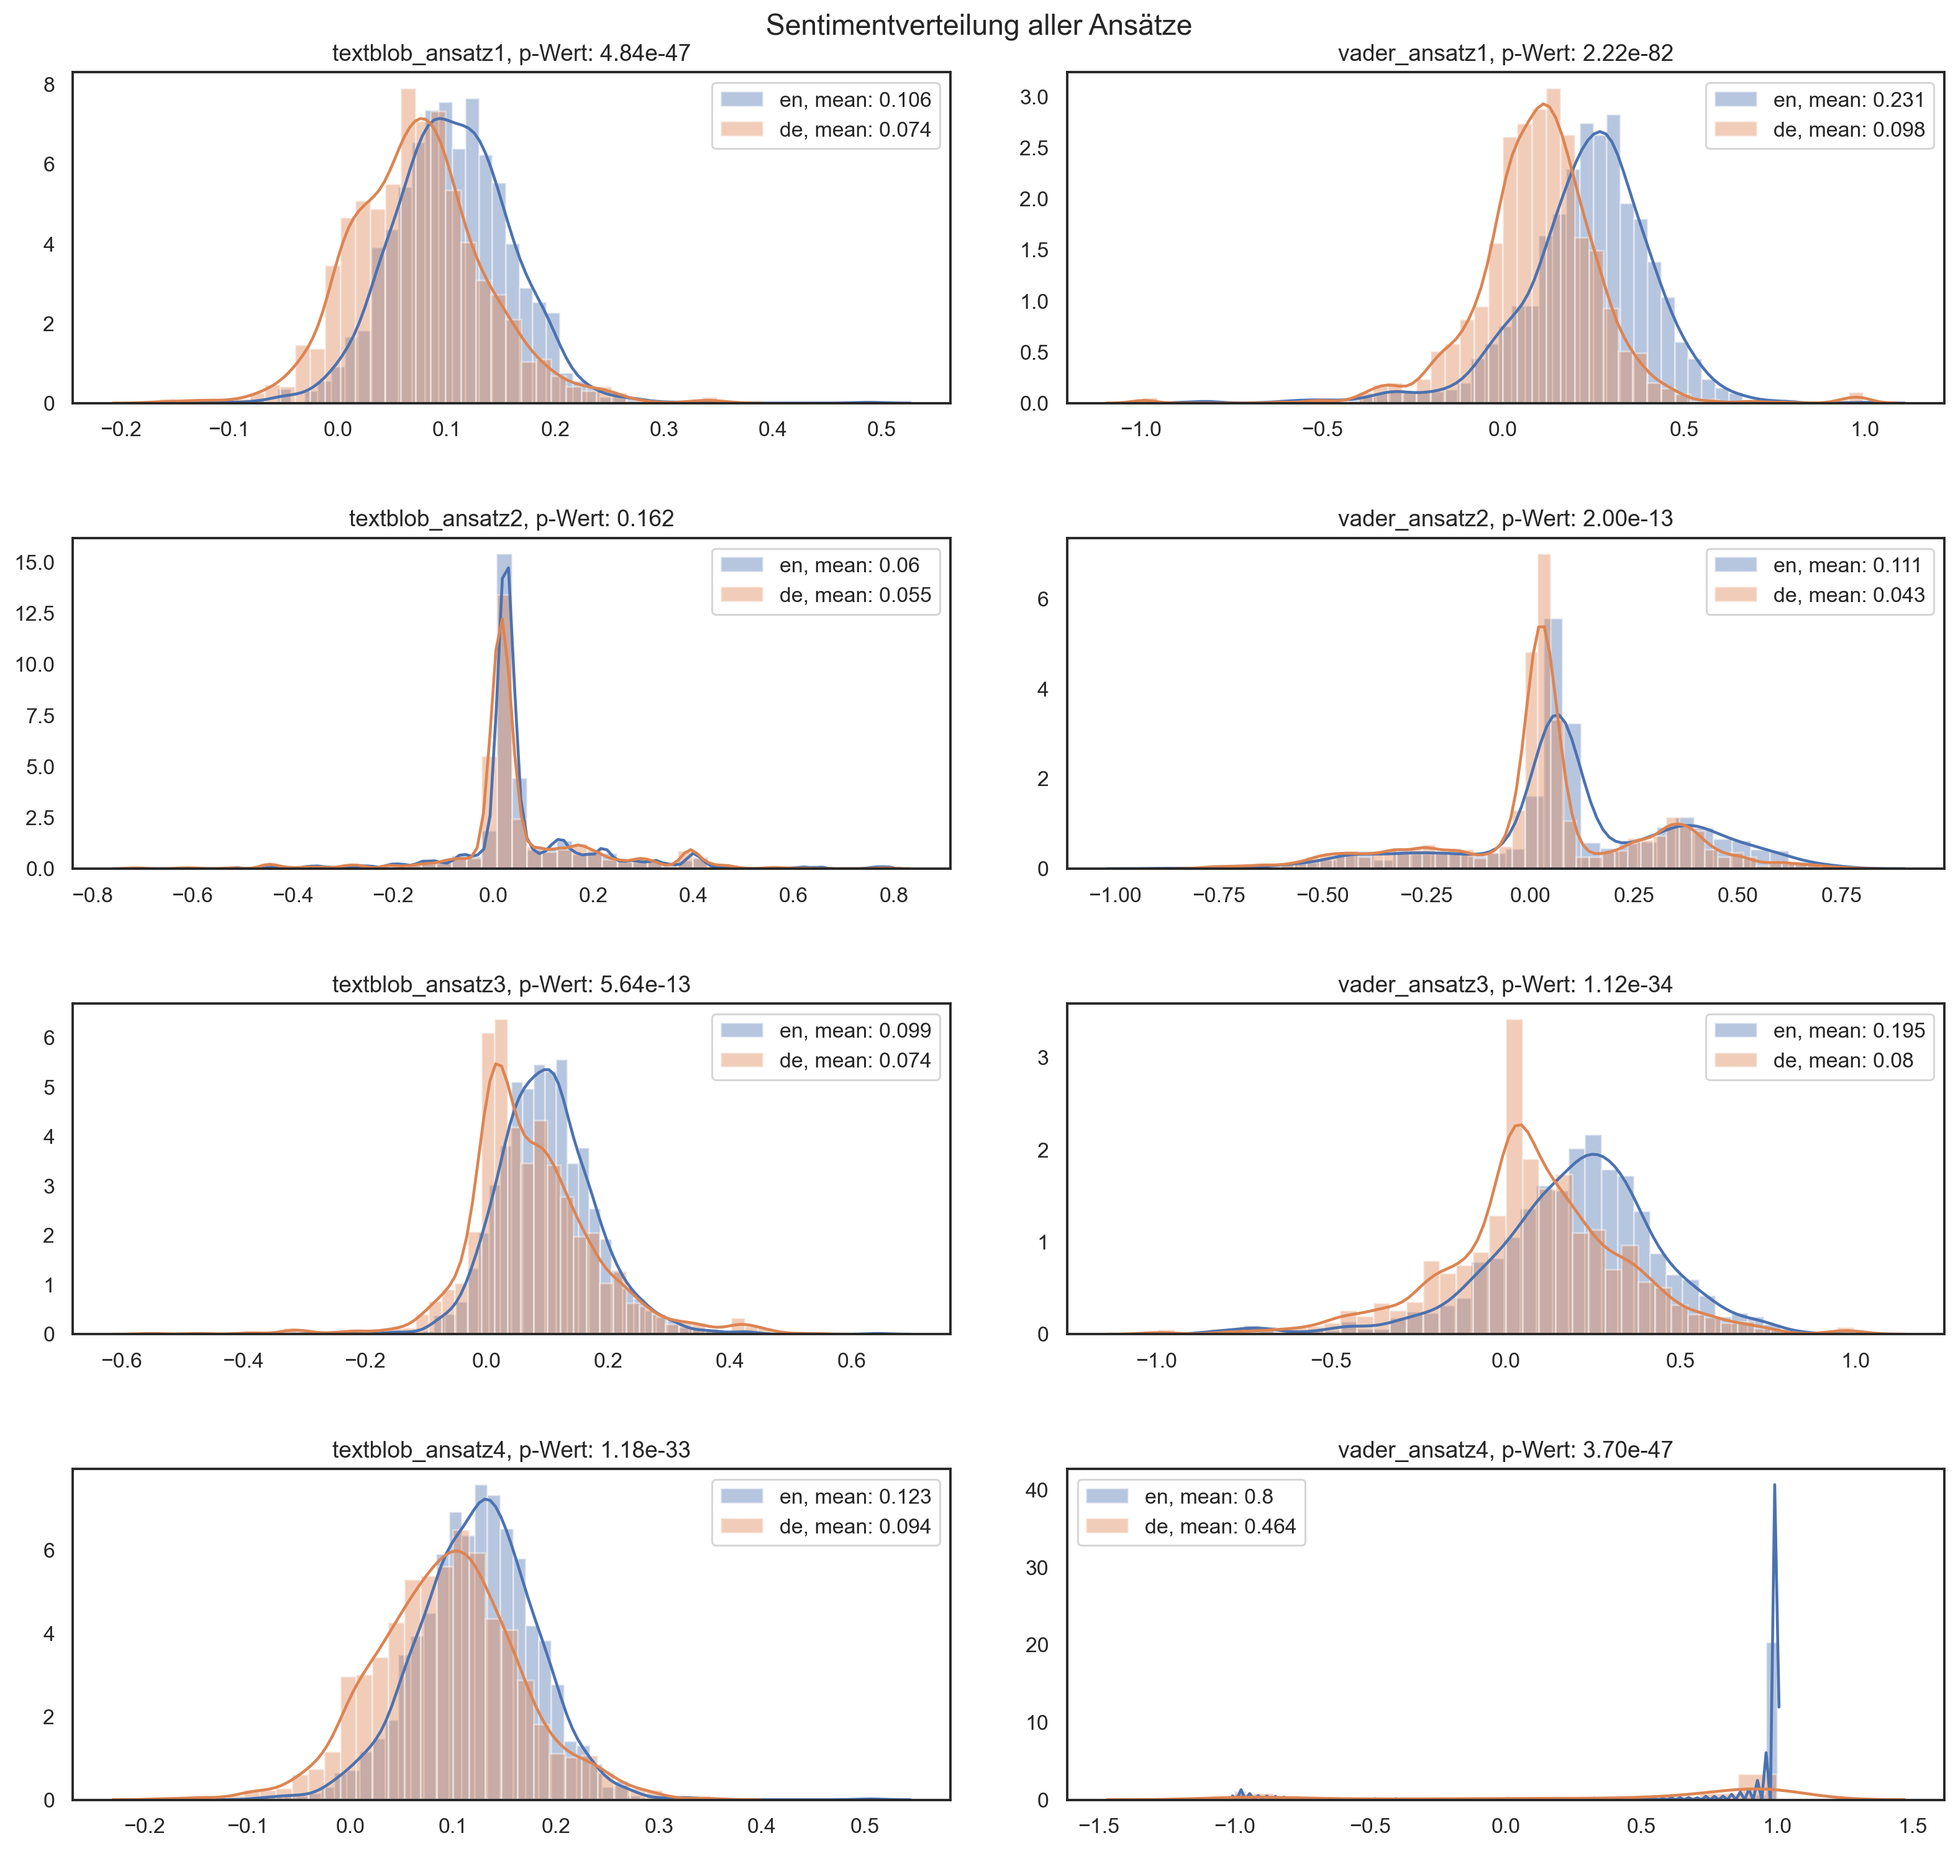
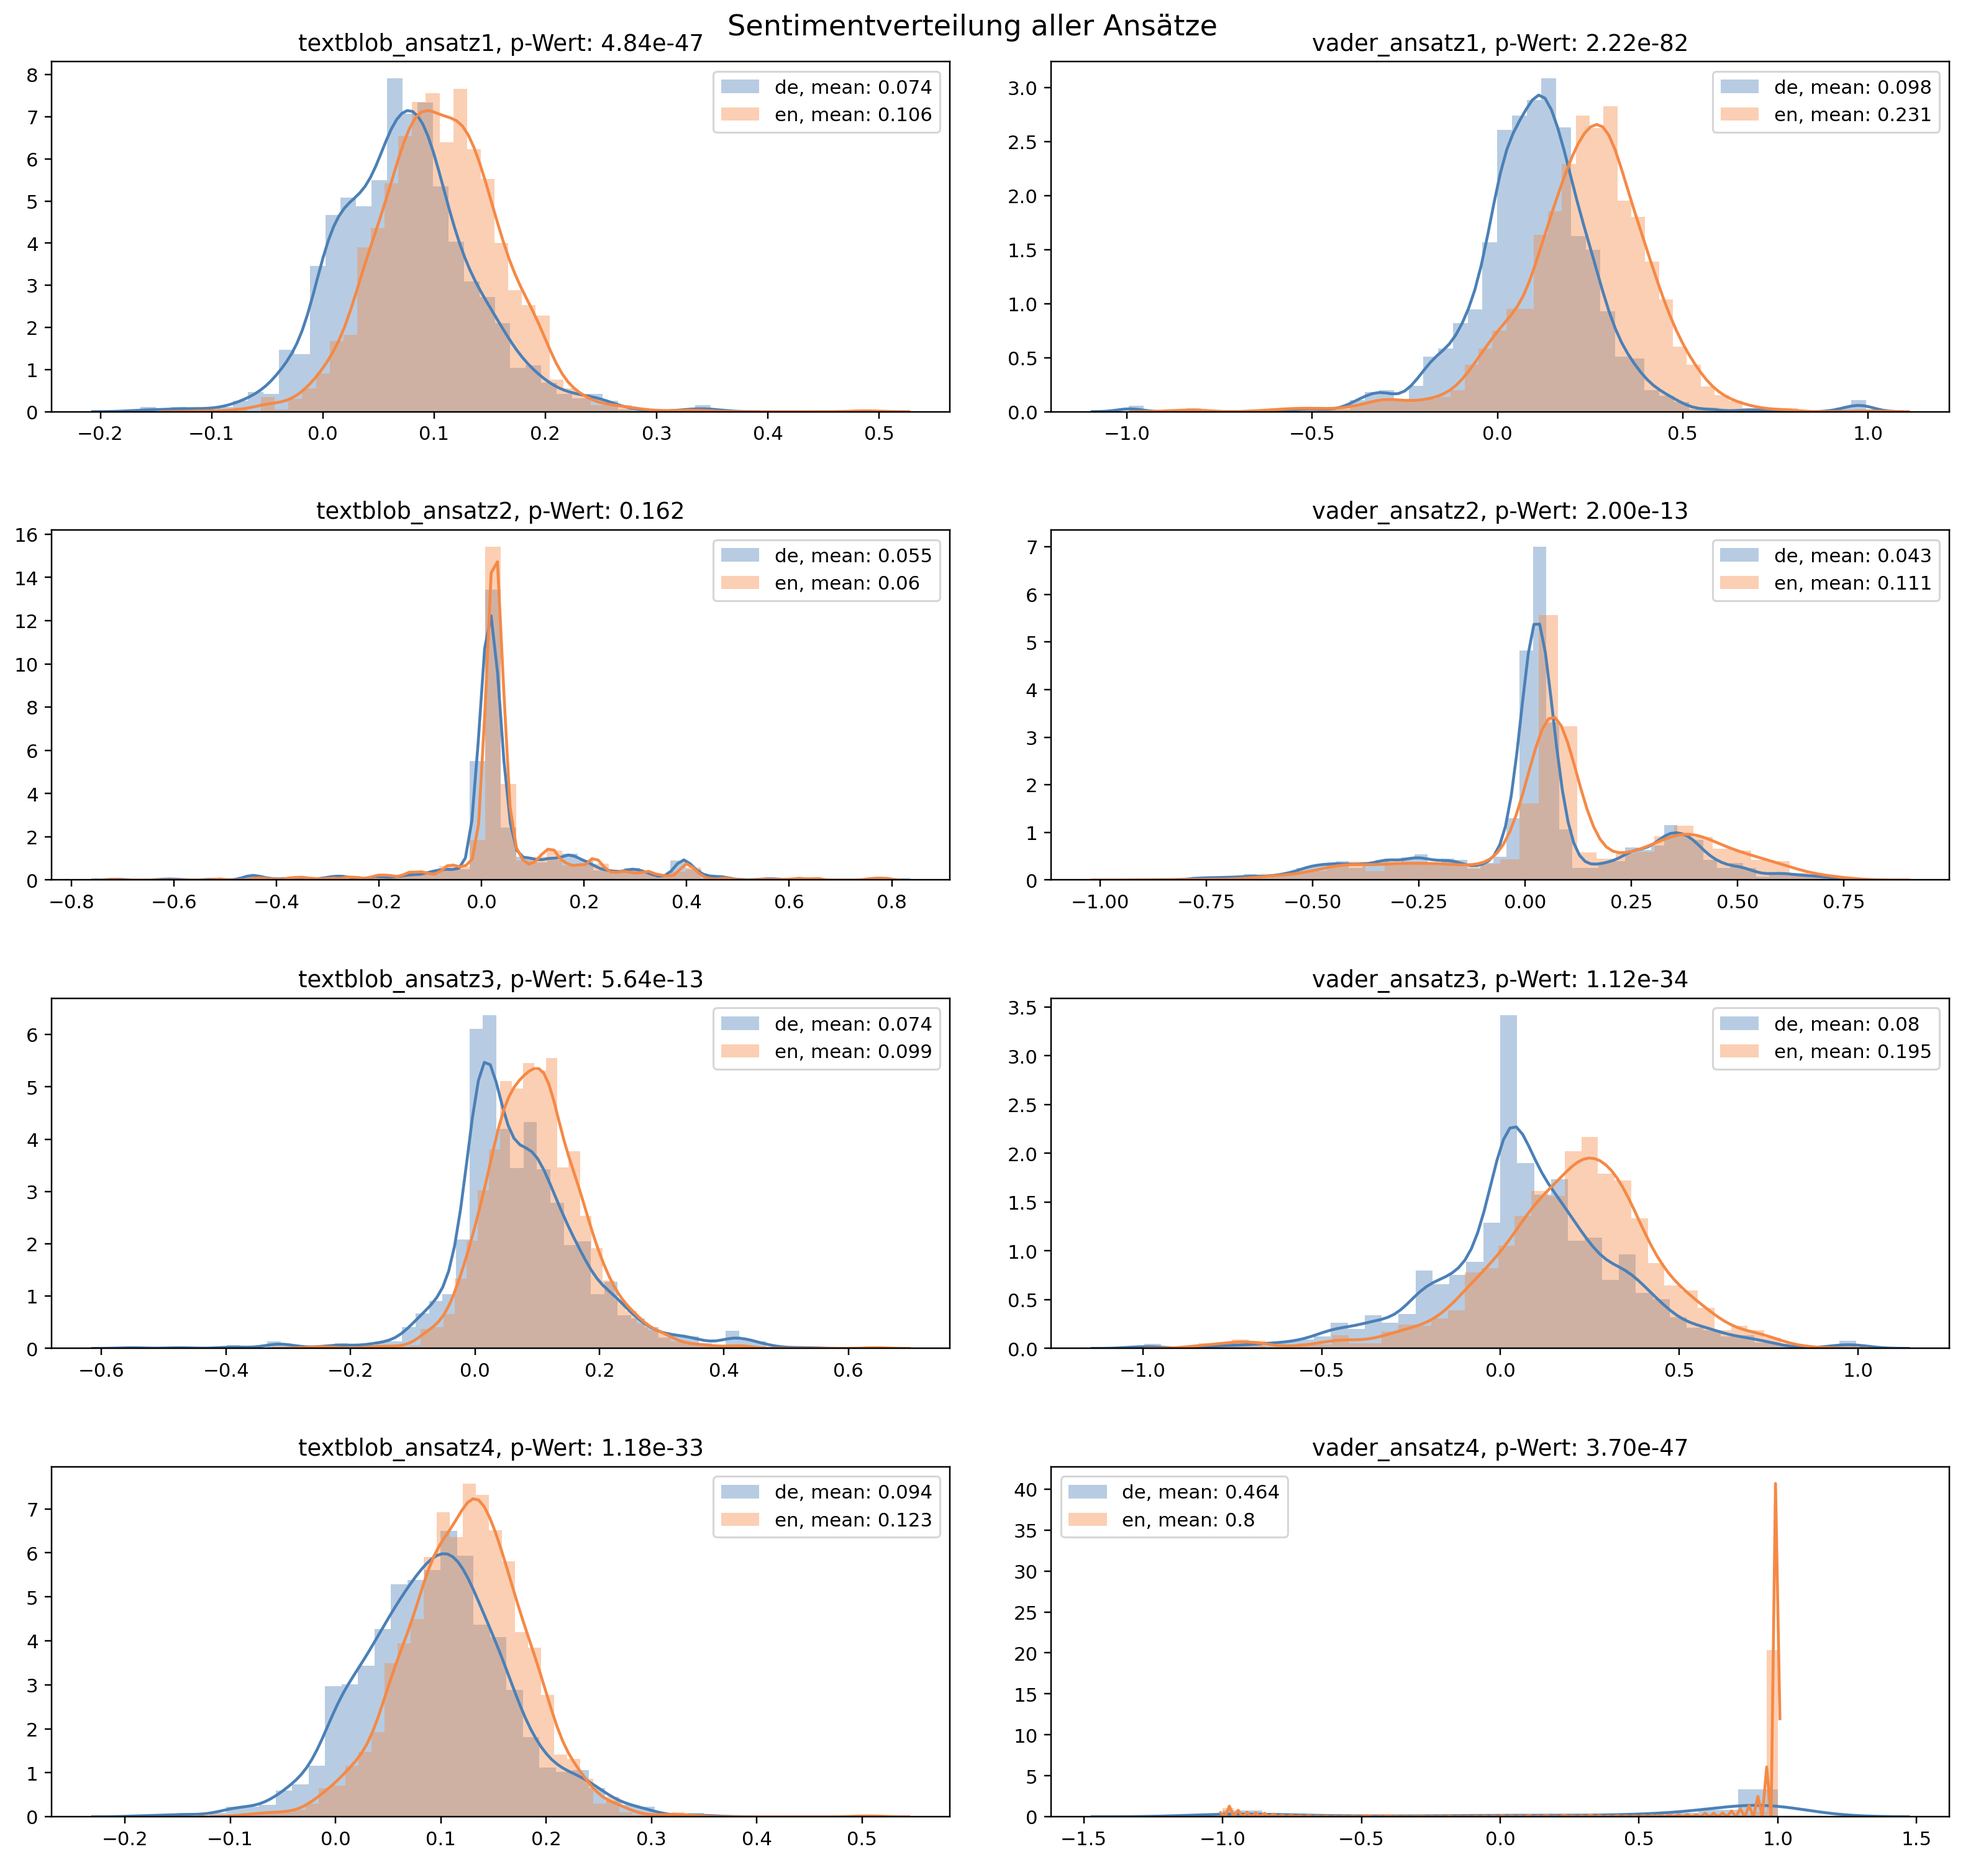
update plots

diff --git a/seniment/evaluation_other_approaches.py b/seniment/evaluation_other_approaches.py
@@ -18,8 +18,7 @@ import resources.color_sheme as color_sheme
 
 
 analyser = SentimentIntensityAnalyzer()
-sns.set_style("white")
-sns.set_palette(sns.color_palette(color_sheme.get_colors()))
+colors = color_sheme.get_colors_lang()
 
 """
 Method that defines all sentiment calculation approaches
@@ -110,7 +109,7 @@ Get relevant data from database
 db = Database()
 source_data = db.get_all(collection="selected2")
 
-data = {"de": list(),"en": list()}
+data = {"de": list(), "en": list()}
 
 for art in source_data:
     if art["language"] =="en":
@@ -135,7 +134,7 @@ for lang in data.keys():
             art[tool] = result[tool]
 
 
-results = {"en":dict(),"de":dict()}
+results ={"de":dict(),"en":dict()}
 for lang in data.keys():
     for tool in tools:
         results[lang][tool] = [art[tool] for art in data[lang]]
@@ -153,7 +152,8 @@ for tool,a in zip(tools_plot,ax.flat):
     for lang in results.keys():
         data.append(results[lang][tool])
         mean = np.array(results[lang][tool]).mean()
-        sns.distplot(results[lang][tool],label=lang+", mean: "+str(round(mean,3)),ax=a)
+        sns.distplot(results[lang][tool], label=lang+", mean: " +
+                     str(round(mean, 3)), ax=a, color=colors[list(results.keys()).index(lang)])
     a.legend()
     
     t, p = stats.ttest_ind(data[0], data[1], equal_var=False,axis=0)
